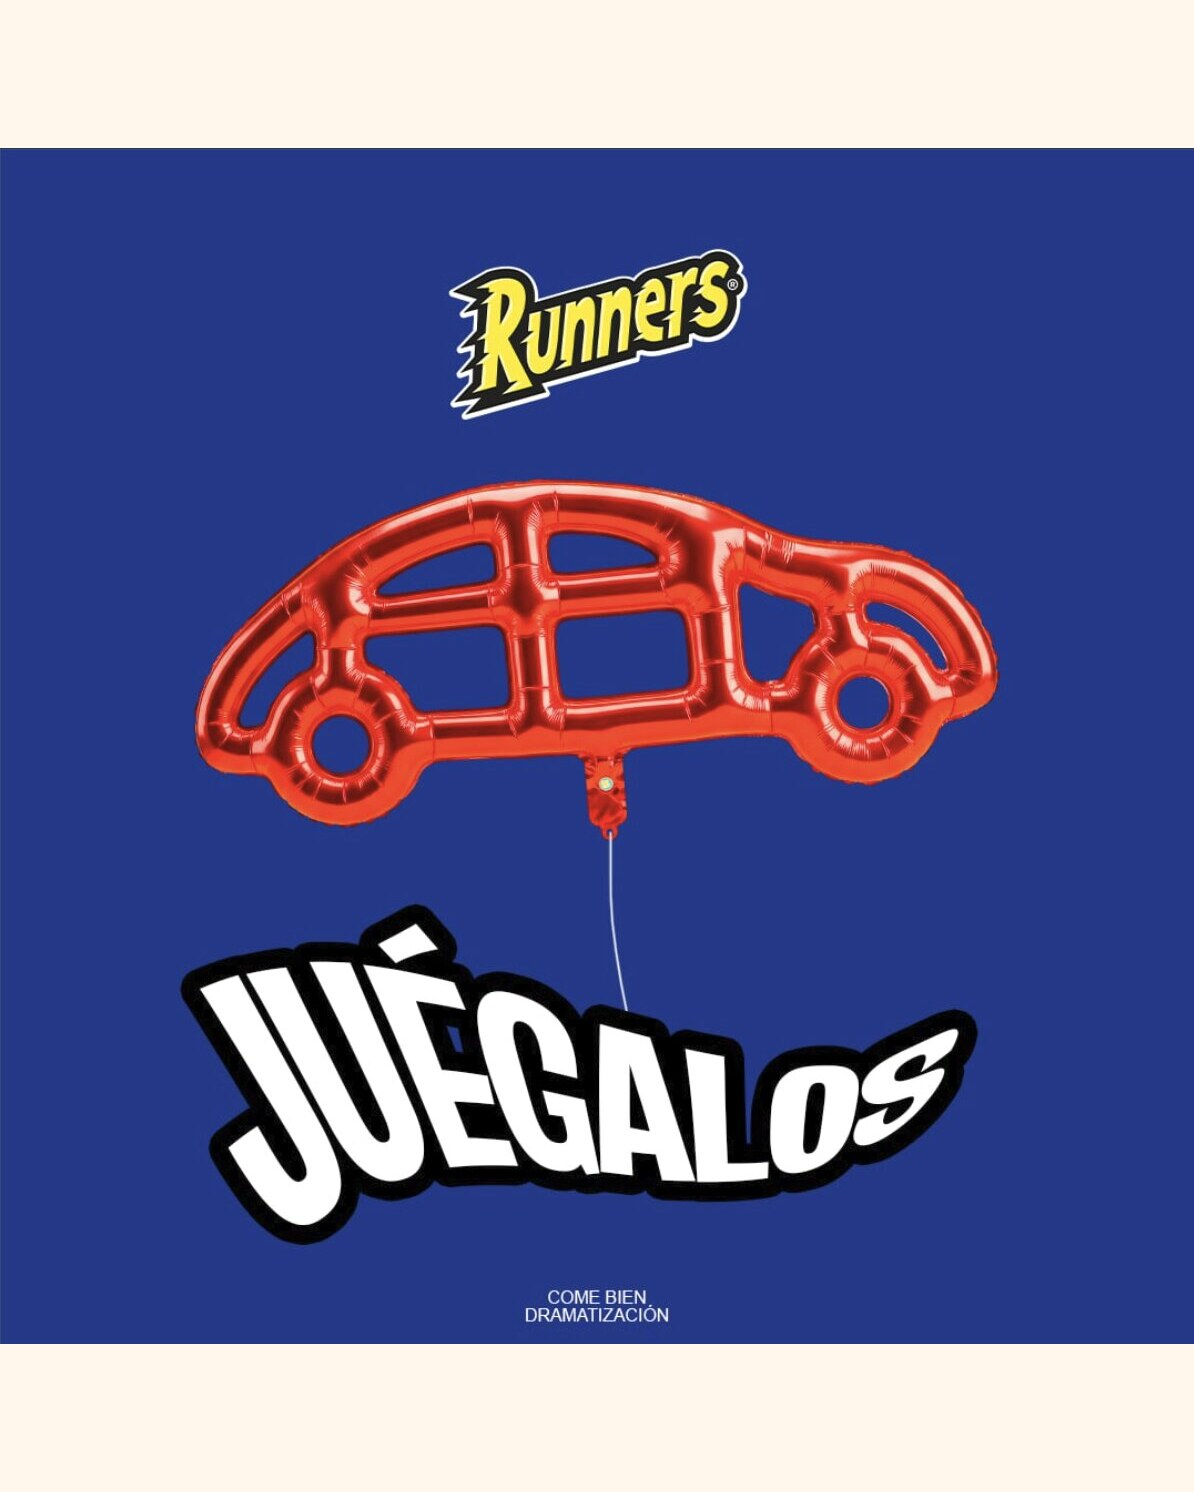
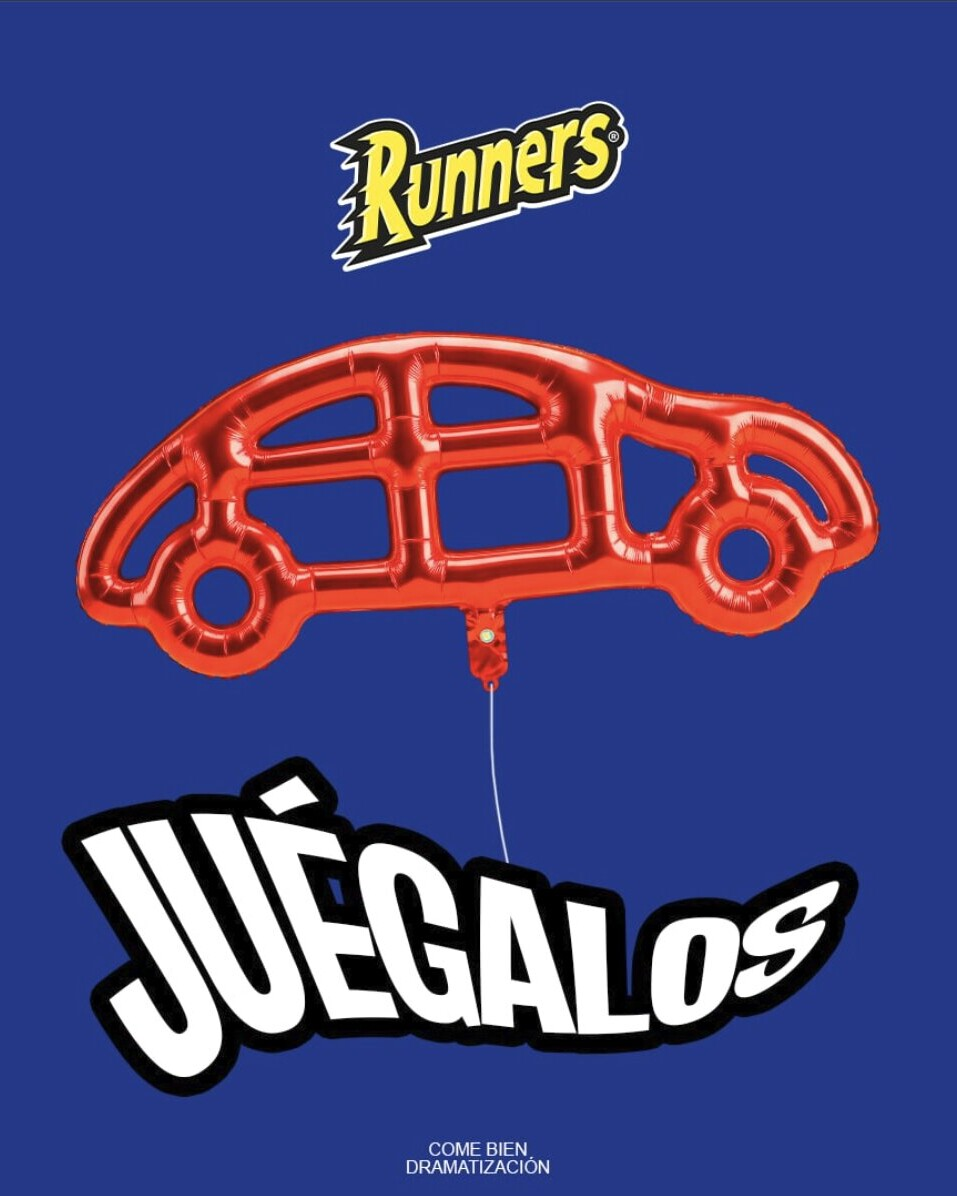
Ronda 165c: recorte lateral en las 2 fotos casi cuadradas de Novedades
El intento anterior (normalizar con relleno a 4:5) tampoco funcionaba: al ser el archivo ya 4:5, object-cover no recortaba nada y el relleno se veia completo como franjas cream arriba/abajo en las 2 fotos casi cuadradas (no-es-cumple-sin-fiesta y runners-juegalos), haciendo que su foto real se viera comprimida/mas chica que las otras 4 -- el cliente lo confirmo de nuevo (Pasen a confesarse vs No es un cumpleanos, Juegalos vs El emoji). Se pregunto al cliente como prefiere resolver el conflicto entre 'no recortar' y 'simetria real', y eligio recortar un poco los bordes. Fix: se recortan los COSTADOS de esas 2 fotos (gravity center, ImageMagick -crop) hasta 957x1196 (ratio 0.80, igual a las otras 4) -- el recorte solo quita fondo/follaje de los bordes laterales, nunca el texto (centrado horizontalmente) ni el producto. Las otras 4 fotos no se tocan (su relleno previo es de 1-6px, imperceptible). Las 6 imagenes ahora son ratio 0.80 real, sin relleno visible y sin recorte de contenido importante.

diff --git a/src/components/NewsSection.tsx b/src/components/NewsSection.tsx
@@ -61,20 +61,36 @@ export default function NewsSection() {
           cliente siguió viendo fotos de alto visual distinto entre tiles de
           la misma fila (correcto — "una más alta que otra").
 
-          Fix real: en vez de pelear con el CSS en el navegador, se
-          normalizan los ARCHIVOS de imagen a la proporción exacta 4:5 antes
-          de servirlos (ImageMagick -gravity center -background "#FFF7EC"
-          -extent, mismo tono que bg-barcel-cream) — se les agrega relleno
-          real en los márgenes más cortos (arriba/abajo o izq/der según cada
-          caso) hasta que el archivo mismo mide exactamente ratio 0.8, igual
-          que el contenedor. Con eso, cualquier object-fit (se usa cover)
-          llena la caja de borde a borde en las 6 por igual, sin banda
-          visible y sin recortar ni un píxel de la foto original — el
-          "recorte" de cover como mucho toca el relleno cream que se acaba de
-          agregar, nunca el contenido real (Ronda 164 se respeta). Esto
-          resuelve la causa raíz en vez de compensarla con CSS: las 6 fotos
-          ahora tienen literalmente la misma proporción en disco, así que se
-          ven con el mismo "peso" visual en cualquier breakpoint. */}
+          Ronda 165b (segundo intento, TAMPOCO alcanzó): se normalizaron los
+          6 archivos a ratio 4:5 exacto agregando RELLENO de color
+          (ImageMagick -extent con fondo #FFF7EC) a las 2 imágenes casi
+          cuadradas. Las cajas quedaron idénticas, pero con object-cover
+          sobre un archivo cuyo ratio ya es exactamente 4:5 no hay recorte —
+          o sea, el relleno que se acababa de agregar se veía completo,
+          como franjas cream visibles arriba/abajo DENTRO de esas 2 fotos.
+          El cliente lo reportó correctamente: "Pasen a confesarse" (sin
+          relleno) se veía con la foto a bandera completa, mientras
+          "No es un cumpleaños" y "Juégalos" (con relleno) se veían con su
+          foto real comprimida en el centro — mismo problema de fondo que
+          Ronda 165, solo que ahora el margen quedó "horneado" en el archivo
+          en vez de ser transparente.
+
+          Fix real (confirmado con el cliente vía pregunta directa: recortar
+          un poco los bordes es preferible a que se siga viendo asimétrico):
+          para las 2 imágenes casi cuadradas (no-es-cumple-sin-fiesta
+          1200x1196 y runners-juegalos 1194x1196, ambas ratio ≈1.0) se
+          recortan los COSTADOS (no arriba/abajo) con ImageMagick -gravity
+          center -crop hasta llegar a 957x1196 (ratio 0.8002, igual que las
+          otras 4) — el recorte solo quita fondo/follaje de los bordes
+          laterales, nunca el texto principal (centrado horizontalmente en
+          ambas piezas) ni el producto. Las otras 4 imágenes ya estaban a
+          ~0.75–0.80 de aspecto real (mucho más cerca de 4:5) y se dejan con
+          su relleno mínimo previo (1–6px, imperceptible) porque recortarles
+          ALTURA sí arriesgaba cortar texto pegado a los bordes (el problema
+          original de Ronda 164). Resultado: las 6 imágenes miden
+          exactamente ratio 0.8 en disco — con object-cover llenan la caja
+          de borde a borde, sin ninguna banda de color visible y sin tocar
+          nunca texto ni producto. */}
       <div className="container-page grid grid-cols-2 gap-2 md:grid-cols-3 md:gap-3">
         {news.map((item) => (
           <a
